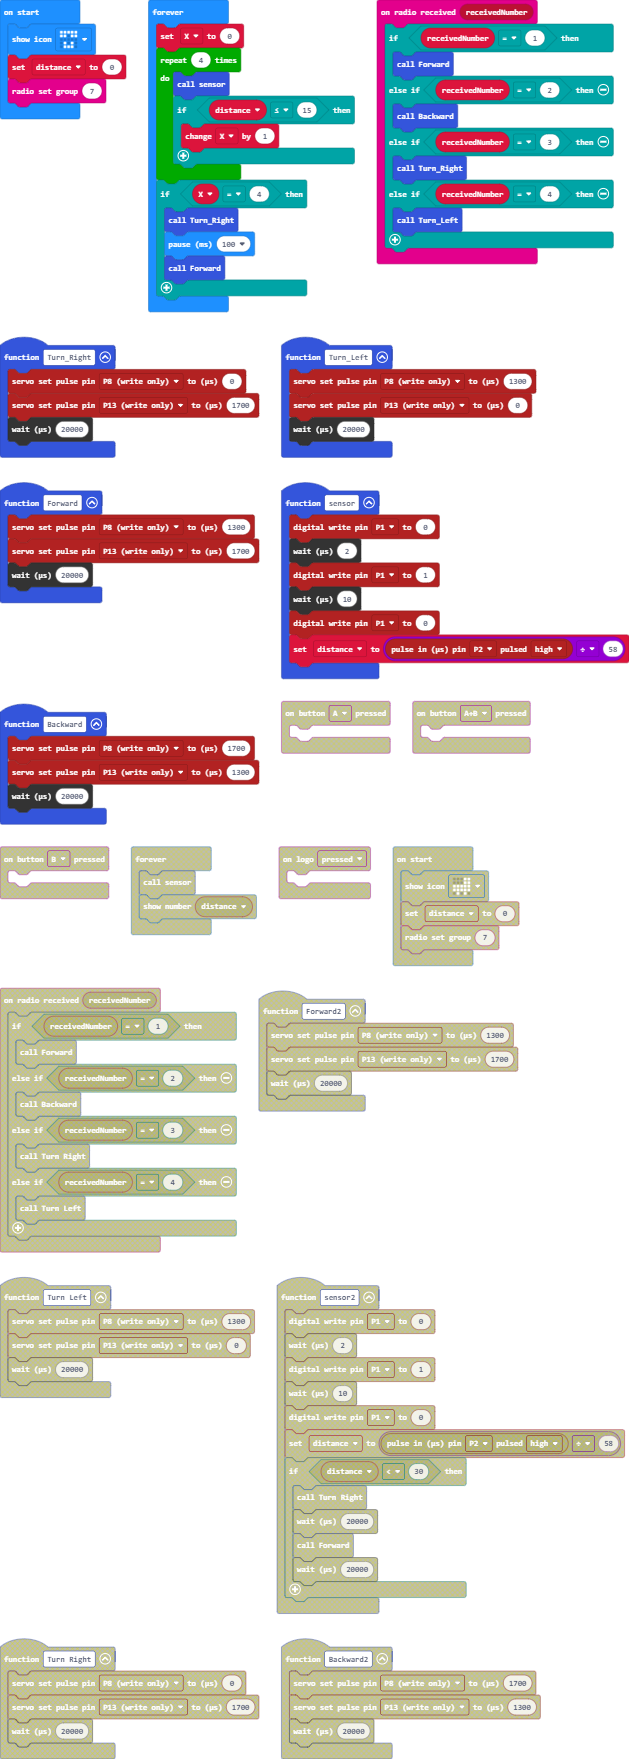
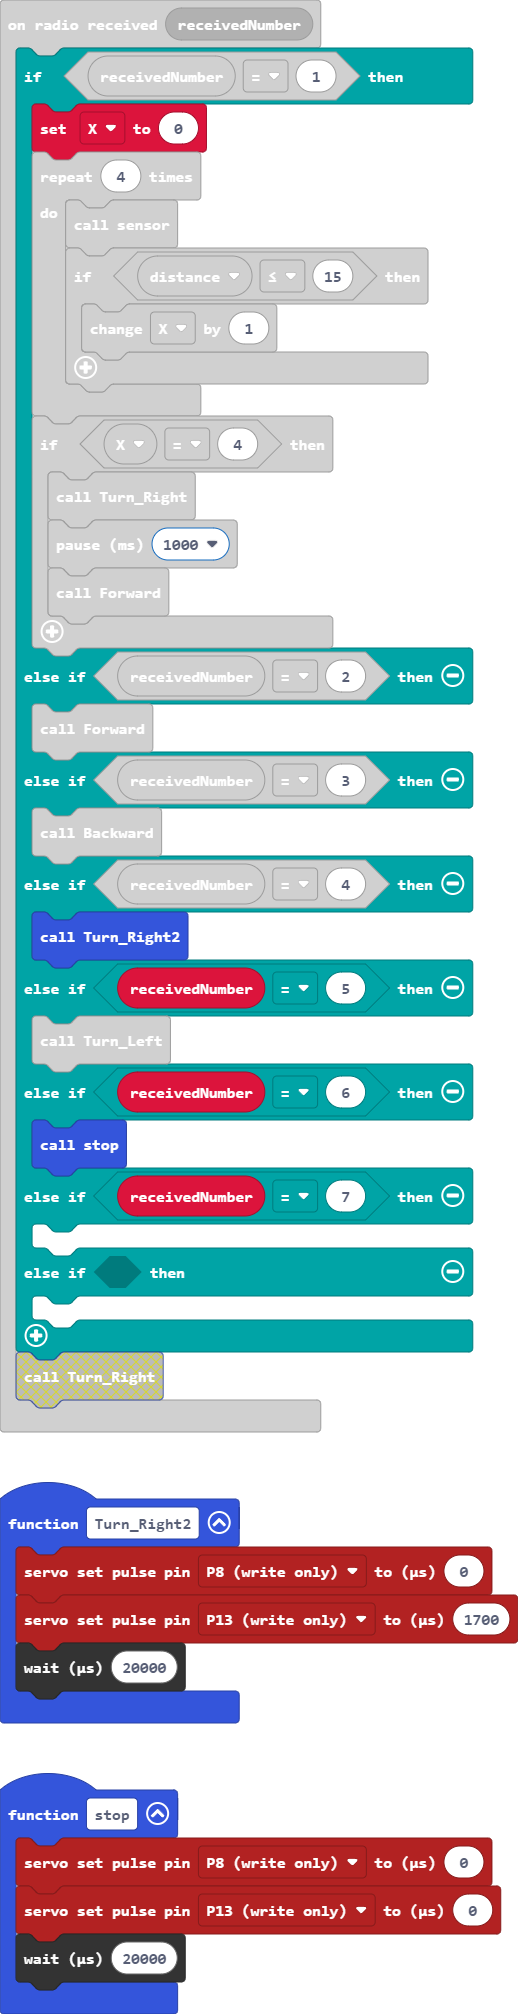
Update main.blocks, main.ts

diff --git a/main.ts b/main.ts
@@ -1,12 +1,31 @@
 radio.onReceivedNumber(function (receivedNumber) {
     if (receivedNumber == 1) {
-        Forward()
+        X = 0
+        for (let index = 0; index < 4; index++) {
+            sensor()
+            if (distance <= 15) {
+                X += 1
+            }
+        }
+        if (X == 4) {
+            Turn_Right()
+            basic.pause(1000)
+            Forward()
+        }
     } else if (receivedNumber == 2) {
-        Backward()
+        Forward()
     } else if (receivedNumber == 3) {
-        Turn_Right()
+        Backward()
     } else if (receivedNumber == 4) {
+        Turn_Right2()
+    } else if (receivedNumber == 5) {
         Turn_Left()
+    } else if (receivedNumber == 6) {
+        stop()
+    } else if (receivedNumber == 7) {
+    	
+    } else if (false) {
+    	
     }
 })
 function Forward () {
@@ -19,9 +38,19 @@ function Turn_Right () {
     pins.servoSetPulse(AnalogPin.P13, 1700)
     control.waitMicros(20000)
 }
+function stop () {
+    pins.servoSetPulse(AnalogPin.P8, 0)
+    pins.servoSetPulse(AnalogPin.P13, 0)
+    control.waitMicros(20000)
+}
 function Turn_Left () {
     pins.servoSetPulse(AnalogPin.P8, 1300)
     pins.servoSetPulse(AnalogPin.P13, 0)
+    control.waitMicros(20000)
+}
+function Turn_Right2 () {
+    pins.servoSetPulse(AnalogPin.P8, 0)
+    pins.servoSetPulse(AnalogPin.P13, 1700)
     control.waitMicros(20000)
 }
 function sensor () {
@@ -43,16 +72,5 @@ basic.showIcon(IconNames.Fabulous)
 distance = 0
 radio.setGroup(7)
 basic.forever(function () {
-    X = 0
-    for (let index = 0; index < 4; index++) {
-        sensor()
-        if (distance <= 15) {
-            X += 1
-        }
-    }
-    if (X == 4) {
-        Turn_Right()
-        basic.pause(100)
-        Forward()
-    }
+	
 })
